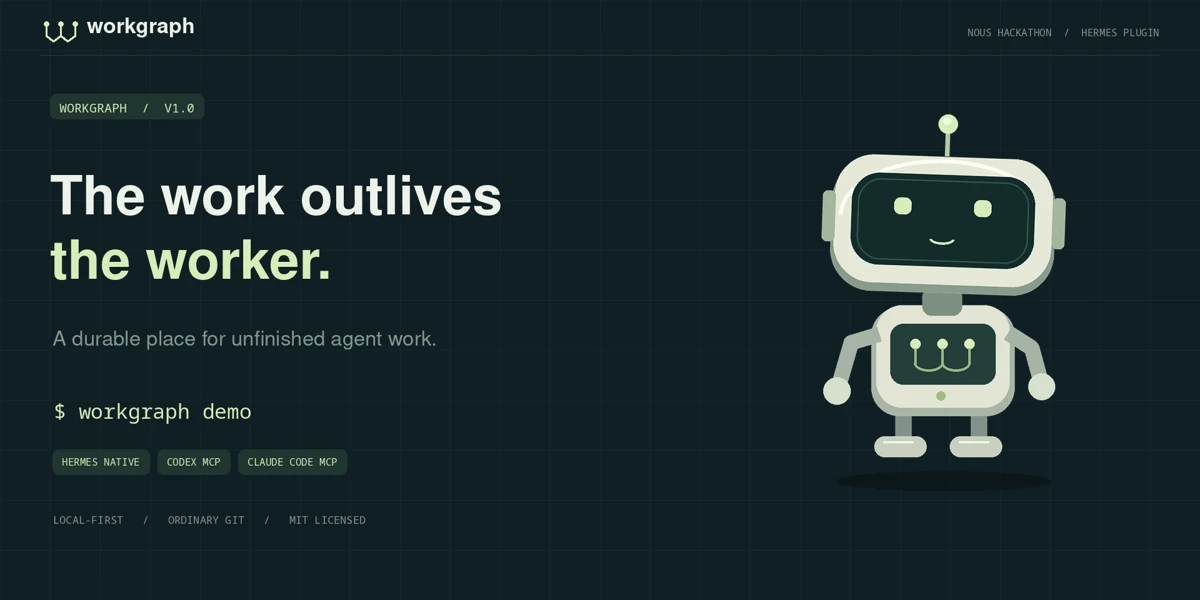
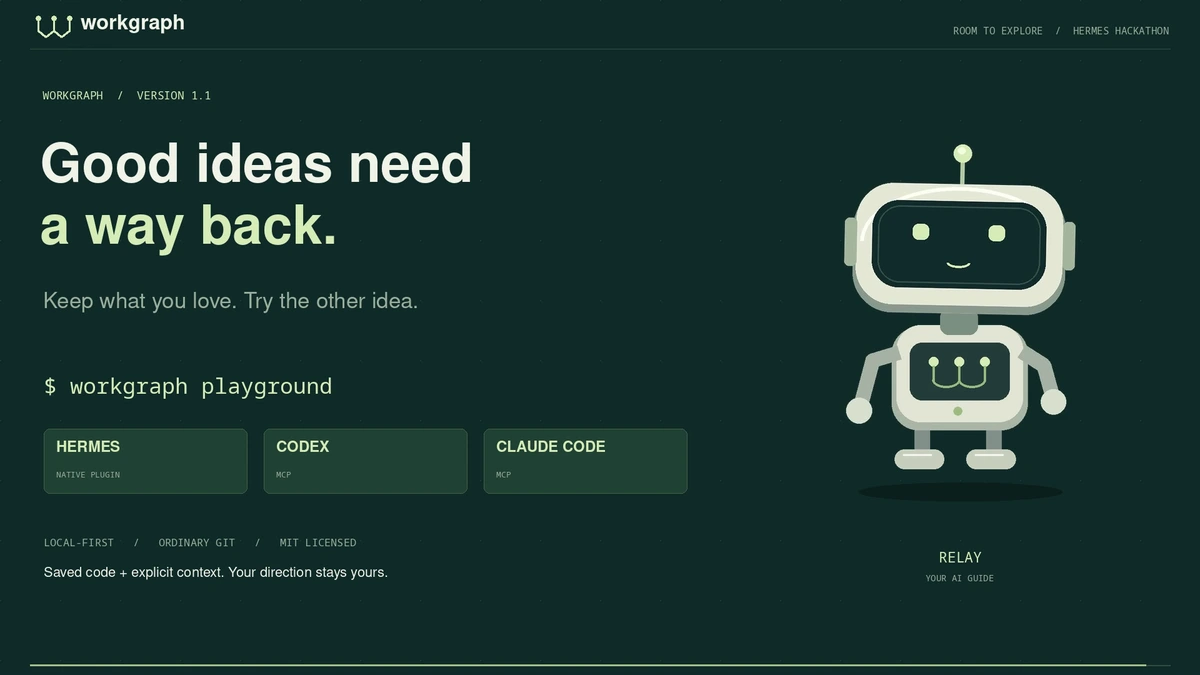
Prepare visual exploration release and revised submission story

diff --git a/submission/README.md b/submission/README.md
@@ -1,93 +1,97 @@
-# Workgraph submission packet
+# Workgraph submission packet — 1.1
 
-V1 and its demo are prepared locally. No public repository, catalog PR, social
-post, or application has been published by this workflow. Proposed repository:
-`https://github.com/aliiqbal24/workgraph` (not created yet).
+Prepared locally. This workflow has not published a repository, catalog PR,
+social post, or application. Proposed repository: `aliiqbal24/workgraph`.
+The catalog draft pins release commit `e5ca39dcb77891aac8e767f78c817d25a1ae0445`.
 
 ## Entry text
 
-**Workgraph — the work outlives the worker.**
+**Workgraph — good ideas need a way back.**
 
-Agents can write code quickly. Their unfinished engineering situation is still
-fragile: a session ends, a replacement rebuilds context, or another worker advances
-a provisional dependency. A clean Git merge does not establish that the composed
-behavior works.
+Your agent made five changes. You want the earlier layout, the newer navigation,
+and another model's perspective. That should be a few visible choices.
 
-Workgraph gives unfinished work a persistent identity. Isolated attempts save
-source with explicit plans, decisions, and open questions. Dependents pin exact
-provisional revisions. Handoffs create fresh workspaces and preserve predecessors.
-Candidates need current, operator-configured evidence before the operator can
-accept an ordinary Git commit.
+Workgraph makes projects explorable: open named saved versions and see their
+actual pages, keep a favorite current, branch from any exact point, compare two
+outcomes, and bring selected files into a new combination. Both originals remain
+available. Download any saved version as a portable project.
 
-The native Hermes plugin uses public tools, lifecycle hooks, and request/execution
-middleware to route and automatically capture managed foreground operations.
-Codex and Claude Code share a stdio MCP tool and local launch/hook bridges. The
-product includes a private localhost dashboard, CLI, recovery, Linux sandboxed
-checks, and a reproducible guided example. It owns no model credentials and sends
-no telemetry.
+Continue the chosen point with Hermes, Codex, or Claude Code. A direction keeps
+its name and history across workers, while each gets a fresh isolated workspace.
+Saved source and explicit notes follow it. Your chosen favorite stays fixed until
+you deliberately choose another result. Ordinary Git stores the source underneath.
+
+The native Hermes plugin automatically captures supported managed foreground
+file and terminal work through public middleware/hooks. Codex and Claude Code
+share the MCP contract and local launch bridges. An engineering view retains
+exact dependencies, operator-configured checks, and checked Git acceptance.
+No cloud account, telemetry, owned model credentials, or runtime approval bypass.
 
 ## What the demo proves
 
-The guided example performs real repository operations with explicitly scripted
-edits: an API worker is interrupted, its work is handed off, the dependent client
-becomes outdated, a textually clean composition fails an independent frozen
-integration check, and the repaired candidate is accepted as one Git commit.
-The failed candidate and old attempts remain inspectable. A separate screen shows
-the saved result of an actual native Hermes session with automatic tool capture.
+The narrated walkthrough shows actual browser operations: recover a warmer
+version, choose it, create a named alternative, compare desktop/phone previews,
+bring Navigation into a fresh version, and download the saved project. The sample
+variants use disclosed scripted edits; the source, branching, previews,
+combinations, and downloads are real.
 
-Relay is an original animated AI presenter. The narration is synthesized locally;
-the screenshots and browser interaction recordings come from the actual product.
+A separate segment inspects immutable results from actual UI-started model runs:
+Hermes changed the headline; Codex continued the same named path and changed only
+Navigation. The prior headline and all other files were preserved byte for byte.
+The footage labels these as saved results, rather than staging a live model run.
+
+Relay is an original animated AI presenter. Speech was synthesized locally;
+phoneme durations drive mouth animation and the actual utterances time captions.
+Real recordings, narration takes, the rig, edit manifest, and render scripts are
+retained in `/home/ali/Videos/workgraph-v2/`.
 
 ## Validation
 
-- 32 distinct core/interface/regression tests passed.
-- Isolated Chromium passed the complete tour, normal work creation, mobile-width
-  overflow check, and browser-error check.
-- Real Python MCP ClientSession passed discovery, work creation, checkpointing,
-  request replay, and the operator acceptance boundary.
-- Installed Hermes 0.21.0 Plugin Doctor passed registration. An actual Hermes
-  oneshot session routed write_file and terminal through the managed attempt,
-  captured both operations, saved context, and left the original checkout intact.
-- A clean wheel install ran the complete example outside the source checkout.
+- 54 core, interface, regression, lifecycle, and version-exploration tests passed.
+- Chromium passed the five stories, exact ZIP export, starting from a person's
+  own dirty checkout, saved dist/ output with CSS/modules, sandbox isolation,
+  mobile overflow, and page/console error checks.
+- Real Python MCP SDK discovery, strict read-only tool rejection of writes,
+  checkpointing, retry replay, and operator boundaries passed.
+- Installed Hermes 0.21.0 Plugin Doctor passed native registration. Real Hermes
+  execution and actual Hermes-to-Codex continuation were verified separately.
+- A clean wheel install outside the checkout completed the original engineering
+  example. Built static previews and exact downloads were checked in the new UI.
 
-Current catalog CI is a separate check; the local Hermes installation provides
-Doctor rather than the newer `plugins validate` command. Do not represent that
-CI check as passed before the upstream PR runs it.
+Claude Code's transport/launcher is included; a live Claude model run is not
+claimed. Current upstream catalog CI is an admission check still to be run on a
+published submission.
 
-## Reviewer disclosures
+## Product scope
 
-The plugin reads/writes the selected Git repository, its common Git directory,
-and managed workspaces. It invokes Git and approved foreground shell/check
-commands, stores source/context/check output/event metadata/retry receipts locally,
-and can serve a token-authenticated localhost UI. Normal agent shell commands can
-use the network; check execution has a private network namespace. It does not
-fetch/replace its own code, access credential stores, change host approvals, or
-patch Hermes core.
+Saved regular static web files get isolated previews. Workgraph does not start
+arbitrary framework servers, databases, or external services to browse history.
+Other projects retain saved source, file comparison, paths, download, and agent
+continuation. Combination transfers selected whole files or explicit deletions;
+finer semantic edits belong to an agent and require review.
 
-Linux, Python 3.11+, Git 2.43+, and working bubblewrap are required for the default
-managed execution modes. An explicit unsafe operator opt-in exists and is not used
-in the submitted demonstration. Codex/Claude per-tool capture depends on reviewed
-host hooks; launch alone provides MCP plus a final checkpoint. Restored state is
-captured source and explicit notes, not hidden model state or external effects.
+The plugin reads/writes selected local repositories and managed workspaces and
+invokes Git, agent runtimes, and approved foreground commands. It stores saved
+source, explicit notes, output, events, and retry receipts locally. Ordinary runtime
+commands may use the network; independent checks use a private network namespace.
+It does not read credential stores or change runtime permissions.
 
-The specific improvement is coherent unfinished work across interruption,
-handoff, and dependency changes. This release does not claim universal semantic
-conflict detection or superiority over every existing version-control tool.
+Linux, Python 3.11+, Git 2.43+, and working bubblewrap are required for default
+managed execution. Restored state is captured source and explicit notes, rather
+than hidden model state, external effects, ignored build outputs, or secrets.
+
+The product hypothesis is coherent visual exploration and portable continuation
+with less version-management effort. Existing products already offer checkpoints,
+worktrees, and alternatives. No unmeasured universal superiority is claimed.
 
 ## Publication sequence
 
-1. Review the finished video and the prepared public files.
-2. Publish the proposed repository and the exact release commit/tag; upload the
-   source archive, Python wheel, MP4, captions, and poster as release assets.
-3. Add the prepared `workgraph.yaml` under `plugin-catalog/` in a PR to
-   NousResearch/hermes-agent. Its pin must be the final published commit. Use
-   `catalog-pr.md` as the PR body and read the catalog CI findings.
-4. Post the attached demo using `social-post.txt`; copy the actual post URL and
-   catalog PR URL into the application. Submit through the organizer's form.
+1. Review the video and public source; publish the proposed repository and the
+   pinned release/tag. Attach the source ZIP, wheel, MP4, captions, and poster.
+2. Add `workgraph.yaml` to `plugin-catalog/` in a PR to NousResearch/hermes-agent;
+   use `catalog-pr.md` and read the actual catalog CI results.
+3. Post the demo using `social-post.txt`, replace draft references with the actual
+   release/post/PR URLs, and submit through the organizer's application.
 
-Catalog admission instructions:
+Catalog instructions:
 https://hermes-agent.nousresearch.com/docs/developer-guide/plugins/catalog-submission
-
-Production project and finished media on this machine:
-`/home/ali/Videos/workgraph-v1/`. The source scripts, narration takes, duration
-timings, original captures, and verification outputs are retained there.

diff --git a/submission/catalog-pr.md b/submission/catalog-pr.md
@@ -1,26 +1,30 @@
-Workgraph preserves unfinished engineering work across agent sessions: isolated
-attempts, explicit context, exact provisional dependencies, safe handoffs, and
-checked candidates that export as ordinary Git commits.
+Workgraph gives people a visible way to explore projects with agents: named saved
+versions, exact-point branching, immutable static previews, side-by-side outcomes,
+selected whole-file combinations, portable downloads, and continuation across
+workers on one named path. Ordinary Git remains the source store.
 
-The native Hermes plugin registers one `workgraph` tool, pre_tool_call,
-pre_llm_call, on_session_finalize, and tool_request/tool_execution middleware.
-It bundles an optional skill and uses public registration APIs only.
+The native plugin registers one workgraph tool, pre_tool_call, pre_llm_call,
+on_session_finalize, and tool_request/tool_execution middleware. It bundles an
+optional skill and uses public APIs. Codex/Claude use the same core through stdio
+MCP; a strictly read-only tool separates inspection from writes requiring approval.
 
-Validation: 32 unit/regression/interface tests, complete Chromium walkthrough,
-real MCP SDK interoperability, clean wheel installation, installed Hermes 0.21.0
-Plugin Doctor, and an actual native Hermes oneshot session with automatic file
-and terminal capture. The local installation lacks the newer `plugins validate`
-command; this PR's catalog CI is the admission validation.
+Validation: 54 automated tests, full Chromium story flows, own dirty-project start
+and exact archive export, real MCP SDK interoperability, clean wheel install and
+complete engineering example, Hermes Plugin Doctor, actual native execution, and
+an actual UI-started Hermes-to-Codex continuation. The headline from Hermes stayed
+byte-identical when Codex changed only Navigation on the same named path.
+A live Claude model run is not claimed. This PR's catalog CI remains the admission
+validation; the installed Hermes exposes Doctor rather than plugins validate.
 
-Disclosures: reads/writes the selected repository/common Git directory and managed
-workspaces; invokes Git and approved foreground shell/check processes; stores
-source, explicit notes, check logs, events, and retry receipts locally; may serve
-a localhost token-authenticated UI. Ordinary managed terminal commands retain
-network access; checks use a private network namespace. No telemetry, credential
-store access, self-updater, core monkeypatches, or approval bypasses.
+Disclosures: reads/writes selected repositories and managed workspaces; invokes
+Git, local agent CLIs, and approved foreground commands; stores source, explicit
+context, task output, check logs, events, and receipts locally; serves an optional
+token-authenticated localhost UI. Runtime authentication/approvals stay intact.
+Normal runtime commands may use the network; checks use a private network
+namespace. No telemetry, credential-store access, self-updater, or core patches.
 
-Linux/bubblewrap required by default. The optional unsafe local operator override
-is explicit and was not used for the demonstration. Semantic compatibility is
-established only to the extent covered by configured checks. The guided demo's
-edits are scripted and disclosed; repository operations are real. Native Hermes
-execution was separately verified in an actual model session.
+Linux/bubblewrap required by default. Preview is saved static regular files;
+framework servers and external services are not started. Combinations are explicit
+whole-file replacements/deletions, with provenance and originals preserved. The
+demo discloses its scripted sample variants and separately shows saved results
+from the verified actual agent runs.
